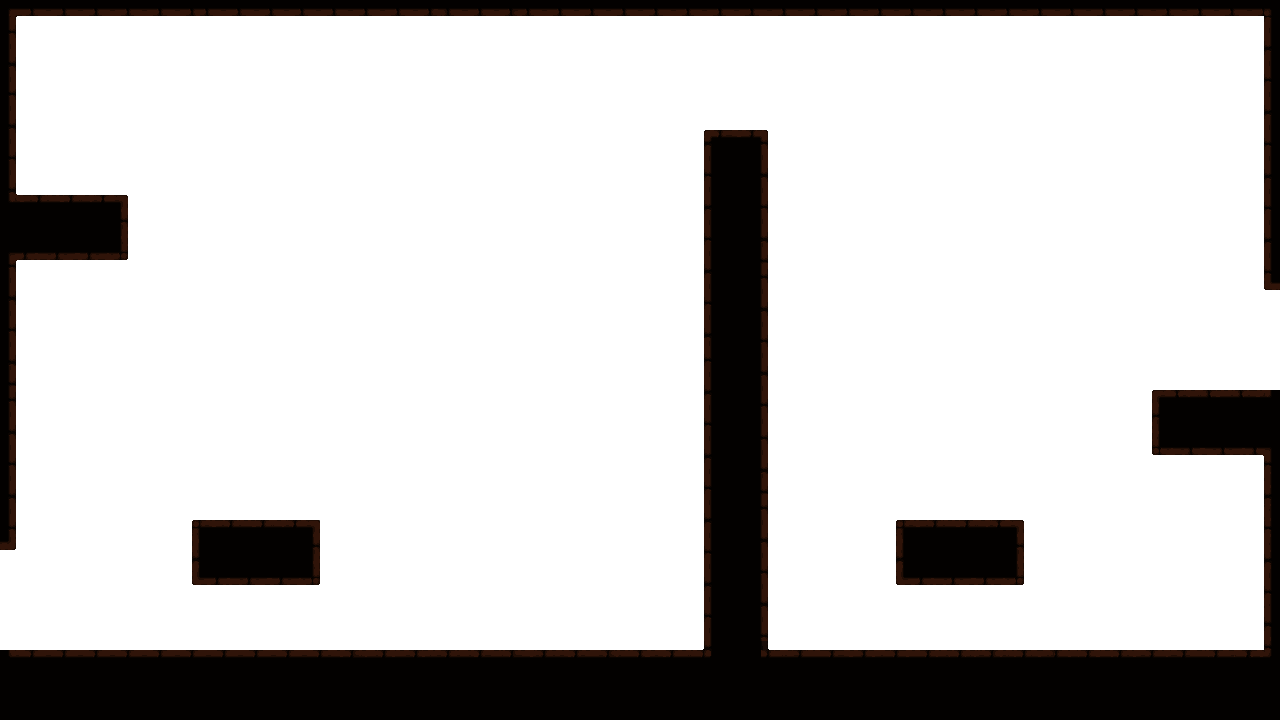
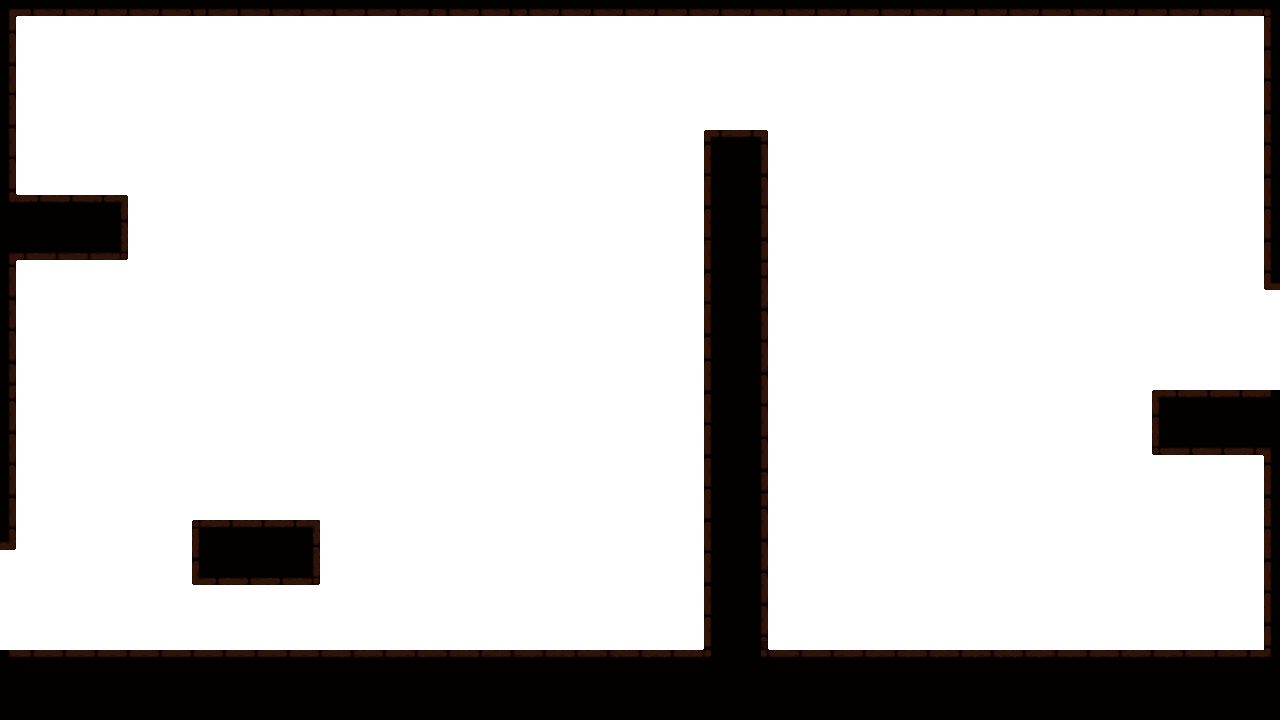
shooting

Changed region(s): [[0.6875, 0.7028, 0.8125, 0.825]]

diff --git a/main.py b/main.py
@@ -9,7 +9,9 @@ def run_game():
     drawSurfaces()
     #y передвигающийся плаформы
     #Основной цыкл игры
+    shooting_lvl(screen,100,False)
     while dict_argument["game"]:
+        
         for event1 in event.get(): # Получаем значение события из "списка событий" 
             # и записываем в переменную event1 
             mouse_cor = mouse.get_pos() #Включаем поддержку действия мыши
@@ -71,11 +73,12 @@ def run_game():
                 sprite1.can_move_left() #Возможность идти влево (тоже колизия)
                 sprite1.can_move_right() #Возможность идти вправо (тоже колизия)
                 sprite1.can_move_up() #Возможность прыгнуть вверх (тоже колизия)
+                sprite1.ladder() #Лестница
             else:
                 sprite1.fly_up = False
             sprite1.spring()
             sprite1.shield(screen)
-            sprite1.ladder() #Лестница
+            
             
             direction_move_map = sprite1.finish_lvl()
             if direction_move_map != "False":
@@ -94,9 +97,7 @@ def run_game():
                 drawSurfaces()
             # шипы
             spike()
-            if dict_argument["index_location"] == 0:
-                #Создаем дверь и кнопку
-                door_and_button(4,7,None,None,"Д","д",sprite1)
+            
             # Облоко подсказка
             # help_function(2.5,2,3,2.5,"TEXT;TEXT","red")
             
@@ -125,6 +126,9 @@ def run_game():
             black_fon.show_image(screen)
             sprite1.statistic_person() #Статистика игрока
             sprite1.ghost(screen)
+            if dict_argument["index_location"] == 0:
+                #Создаем дверь и кнопку
+                door_and_button(4,7,None,None,"Д","д",sprite1)
             # bird() #Включает метод птицы
             
             

diff --git a/constant.py b/constant.py
@@ -10,6 +10,8 @@ SCREEN_H = display.Info().current_h
 SCREEN_W = 1280
 SCREEN_H = 720
 FPS = 30
+flags = SCALED
+
 #Создаем список контуров
 list_border_cor_cracking = list()
 list_border_cor_key_and_door = list()
@@ -121,7 +123,7 @@ dict_spawn_and_finish_point = {
     "lvl1_location_1":[[SCREEN_W//80,SCREEN_H-SCREEN_H//10*2.5],Rect(0,-SCREEN_W/40,SCREEN_W//20,1),"up"],
     "lvl1_location_2":[[SCREEN_W//80,SCREEN_H-SCREEN_H//10*2.5],Rect(SCREEN_W-SCREEN_W//80,SCREEN_H//5.53,1,SCREEN_H//5.53),"right"],
     "lvl1_location_3":[[SCREEN_W//80,SCREEN_H//5.5],Rect(SCREEN_W-SCREEN_W//80,SCREEN_H//45,1,SCREEN_H//6.31),"right"],
-    "lvl1_location_4":[[SCREEN_W//80,SCREEN_H-SCREEN_H//10*2.5],None,None]
+    "lvl1_location_4":[[SCREEN_W//80,SCREEN_H-SCREEN_H//10*2.5],Rect(SCREEN_W-SCREEN_W//80,SCREEN_H//2.48,1,SCREEN_H//7.2),None]
 }
 #Словари аргументов и ломания платформ
 broken_cracking_platform = dict()

diff --git a/module.py b/module.py
@@ -828,3 +828,23 @@ def move_map(direction):
     # Обновляем матрицу
     drawSurfaces()
 
+def shooting_lvl(screen,min_count_point,barriers):
+    game = True
+    # mouse.set_visible(False)
+   
+    while game:
+        screen.fill("black")
+        Background_shooting.show_image(screen)
+        aim.show_image(screen)
+        # mouse.set_pos([SCREEN_W//2,SCREEN_H//2]ИЗМЕНЯТЬ
+        for event1 in event.get(): # Получаем значение события из "списка событий" 
+            
+            if event1.type == QUIT:
+                game = False
+            if event1.type == MOUSEMOTION:
+                Background_shooting.X += int(event1.rel[0])
+                print(event1.rel)
+                Background_shooting.Y += int(event1.rel[1])
+        clock.tick(FPS)
+        print(clock.get_fps())
+        display.update()

diff --git a/object.py b/object.py
@@ -32,7 +32,8 @@ invisible_block_icon = Graphic_elements(SCREEN_W-SCREEN_W//10,SCREEN_H-SCREEN_H/
 Rope_with_saw = Graphic_elements(SCREEN_W//2,SCREEN_H//15,SCREEN_W//15,SCREEN_W//20*10,"image/Rope_with_saw.png")
 Hook = Graphic_elements(SCREEN_W//2,SCREEN_H//15,SCREEN_W//30,SCREEN_W//20*10,"image/Hook.png")
 button = Graphic_elements(0,0,SCREEN_W//20,SCREEN_W//20//3.3846,"image/button.png")
-
+Background_shooting = Graphic_elements(-SCREEN_W,-SCREEN_H,SCREEN_W*3,SCREEN_H*2,"image/фон.bmp")
+aim = Graphic_elements(SCREEN_W//2-SCREEN_W//40,SCREEN_H//2-SCREEN_W//40,SCREEN_W//20,SCREEN_W//20,"image/aim.png")
 #Создаем список графических елементов шипов
 list_spikes = []
 #Создаем словарь графических елементов

diff --git a/surface.py b/surface.py
@@ -65,11 +65,11 @@ list_surface_lvl1_location_4 = [
                 list('00000000000000000000'),
                 list('0000PPpppppb00000000'),
                 list('bb000000000b00000000'),
-                list('0000cc00000bcc000000'),
-                list('00000000000b00000000'),
-                list('00000000cc0b00000лbb'),
+                list('000cc000000b00000000'),
+                list('00000000000bcc000000'),
+                list('0000000cc00b00000лbb'),
                 list('00000000000b00000Л00'),
-                list('000bb000000b00bb0ъ00'),
+                list('000bb000000b00000ъ00'),
                 list('00000000000b00000000'),
                 list('bbbbbbbbbbbbbbbbbbbb'),
                 list('00000000000000000000')

diff --git a/graphic_elements.py b/graphic_elements.py
@@ -40,3 +40,4 @@ class Graphic_elements():
         if mouse_cor[0] > self.X and mouse_cor[0] < self.X + self.WIDTH and mouse_cor[1] > self.Y and mouse_cor[1] < self.Y + self.HEIGHT:
             return True
 
+    

diff --git a/test.py b/test.py
@@ -1,3 +1,1 @@
-a = "ПКРКПАГКПР"
-a = a.lower()
-print(a)
+import pygame
